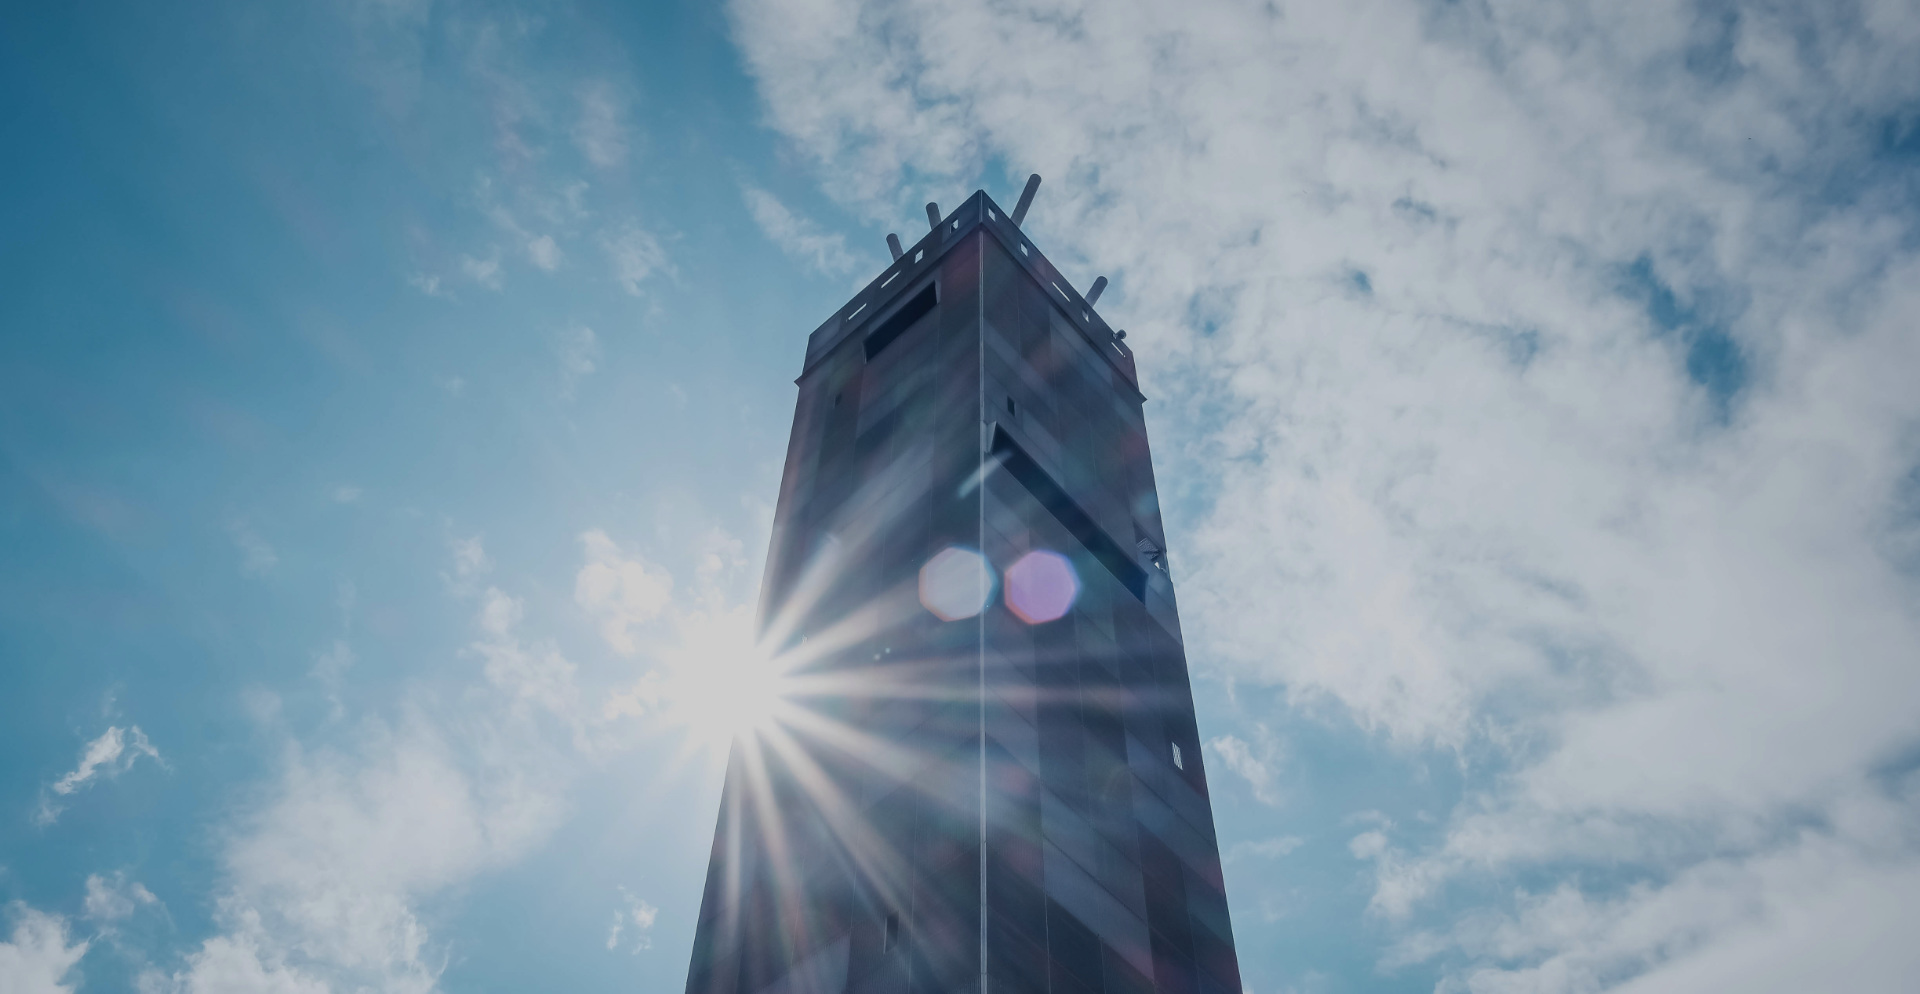
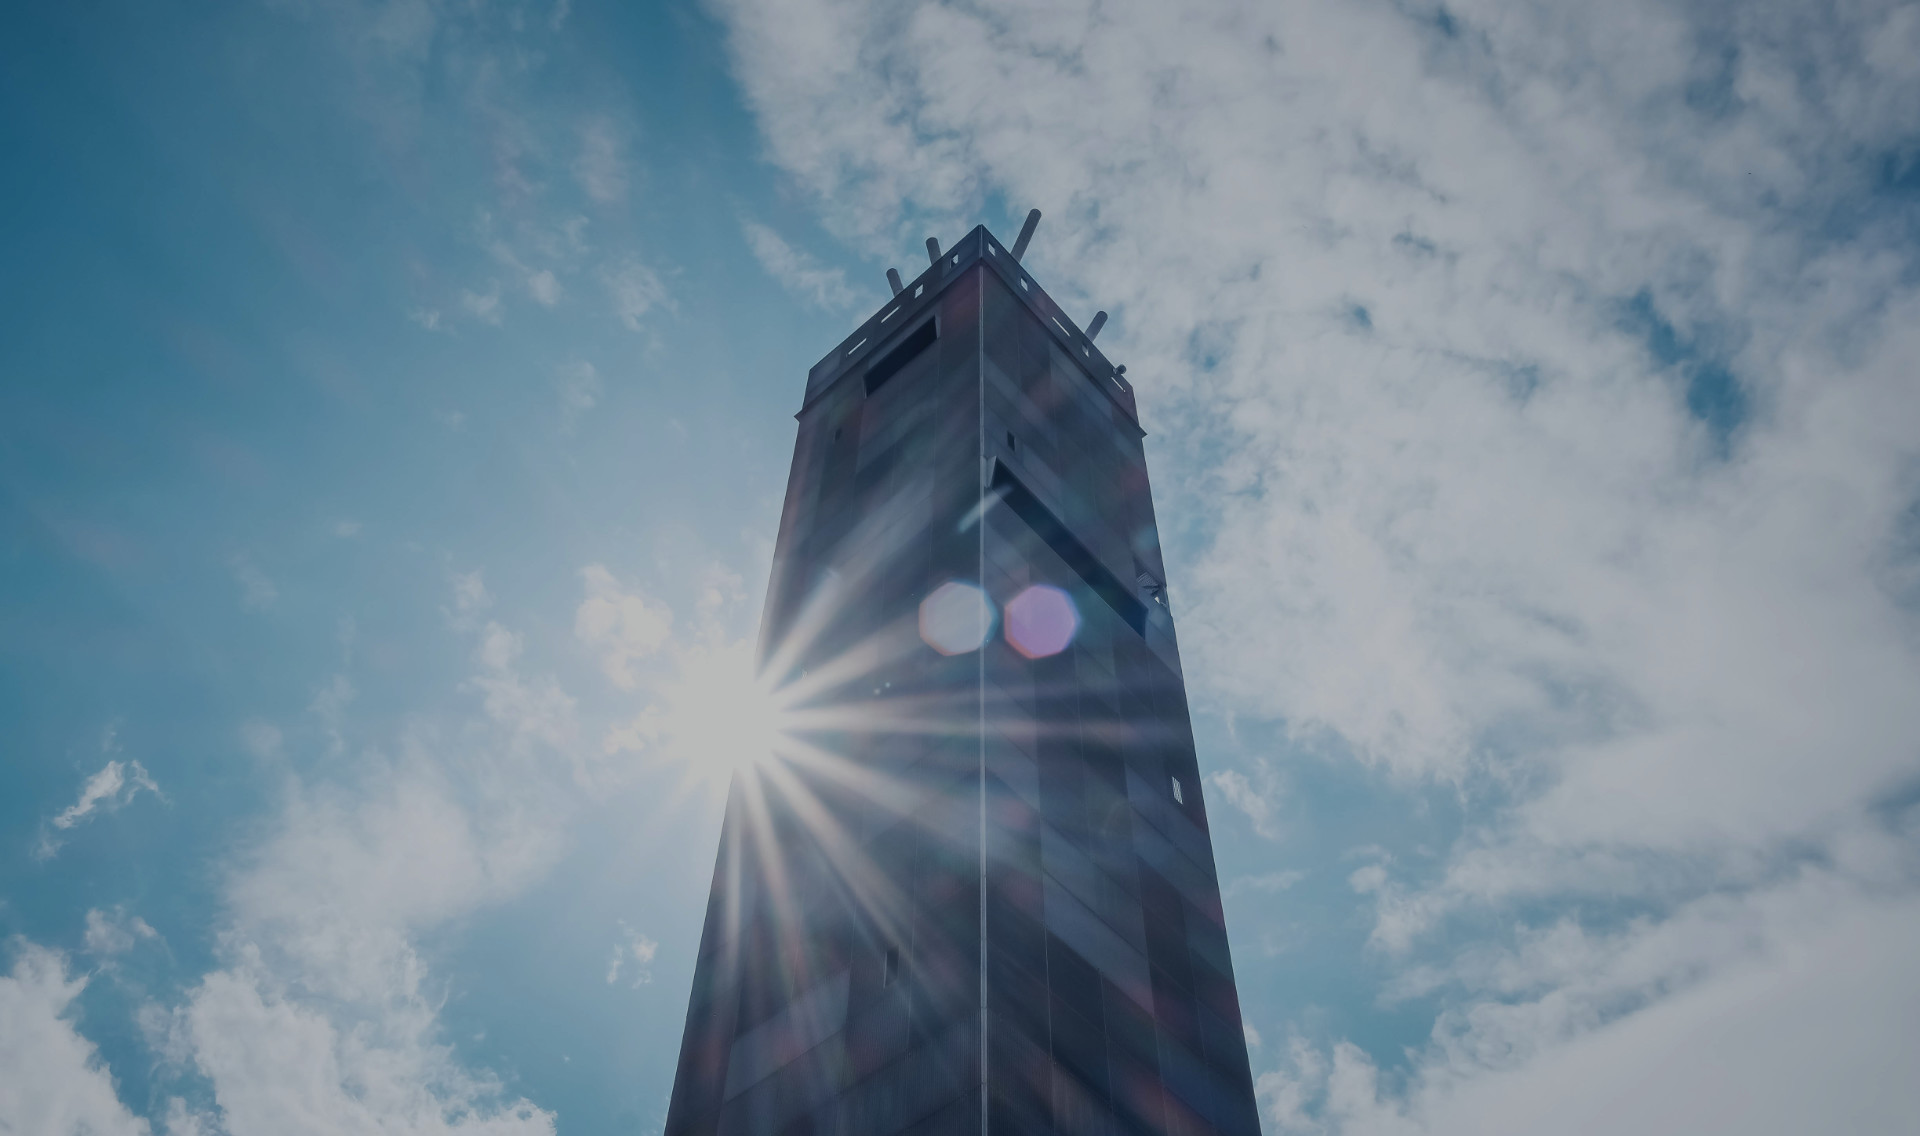
hero, btns, animace

diff --git a/kontakt.html b/kontakt.html
@@ -125,7 +125,7 @@
                                     </p>
                                 </div>
                                 <div class="col-lg-5">
-                                    <div class="areal-logo-div">
+                                    <div class="areal-logo-div-kontakt">
                                     <a href="./areal-chram.html"><img class="kontakt-logo" src="./img/assets/2_CHCHP.png"></a>
                                     </div>
                                 </div>
@@ -154,7 +154,7 @@
                                     </p>
                                 </div>
                                 <div class="col-lg-5">
-                                    <div class="areal-logo-div">
+                                    <div class="areal-logo-div-kontakt">
                                         <a href="./areal-sladovna.html"><img class="kontakt-logo" src="./img/assets/1_Sladovna.png" alt="Logo Galerie Sladovny."></a>
                                     </div>
                                 </div>
@@ -185,7 +185,7 @@
                                     </p>
                                 </div>
                                 <div class="col-lg-5">
-                                    <div class="areal-logo-div">
+                                    <div class="areal-logo-div-kontakt">
                                         <a href="./areal-zahrada.html"><img class="kontakt-logo" src="./img/assets/3_Zahrada.png"></a>
                                     </div>
                                 </div>

diff --git a/css/styles.css b/css/styles.css
@@ -45,7 +45,7 @@ html{
 }
 
 .hero-image {
-  background-image: url('../img/img-povinne-informace.jpg');
+  background-image: url('../img/img-hero.jpg');
 }
 
 .restaurace-image {
@@ -152,9 +152,28 @@ img{
   margin:auto;
 }
 
-.areal-logo{
+/* kontakt logo */
+.areal-logo-kontakt{
   
   height:230px;
+  position: relative;
+  left: 50%;
+  transform: translateX(-50%);
+}
+
+.areal-logo-div-kontakt img{
+  -webkit-transition: .2s ease-in-out;
+	transition: .2s ease-in-out;
+  opacity: 1;
+}
+
+.areal-logo-div-kontakt img:hover{
+	opacity: .5!important;
+}
+/* ! kontakt logo */
+
+.areal-logo{
+  width:230px;
   position: relative;
   left: 50%;
   transform: translateX(-50%);
@@ -168,7 +187,7 @@ img{
 
 .areal-logo-div img:hover{
 	opacity: .5!important;
-
+  width:240px;
 }
 
 .areal-logo-down{
@@ -244,6 +263,9 @@ img{
   .galerie{
     width: 100% !important;
   }
+  .btn-second{
+    margin-left: 0rem!important;
+  }
 }
 
 .languages a{
@@ -257,6 +279,9 @@ img{
   color:#214e41 !important;
 }
 
+.btn-second{
+  margin-left: 1rem;
+}
 
 .copy{
   padding-top: 15.33rem;

diff --git a/index.html b/index.html
@@ -69,8 +69,9 @@
       <img class="hero-footer" src="img/assets/Zahlavi.png" alt="Zápatí Hero sekce" >
       <div class="container">
         <h2 class="hero-text text-white"></h2>
-        <a class="btn btn-primary my-3" href="#areal"  role="button">&nbsp;&nbsp;&nbsp;Areál Chrámu Chmele a Piva&nbsp;&nbsp;&nbsp;</a>
-        <br><a class="btn btn-secondary my-3" href="./kontakt.html" role="button">Otevírací doba</a><a class="btn btn-secondary my-3" href="rezervace.chchp.cz" style="margin-left: 1rem;" role="button">Rezervace</a>
+        <a class="btn btn-primary my-3" href="#areal"  role="button">&nbsp;&nbsp;&nbsp;Areál Chrámu Chmele a&nbsp;Piva&nbsp;&nbsp;&nbsp;</a>
+        <br><a class="btn btn-secondary my-3" href="./kontakt.html" role="button">Otevírací doba</a>
+        <a class="btn btn-secondary my-3 btn-second" href="https://rezervace.chchp.cz" role="button">Rezervace</a>
 
       </div>
     </div>
